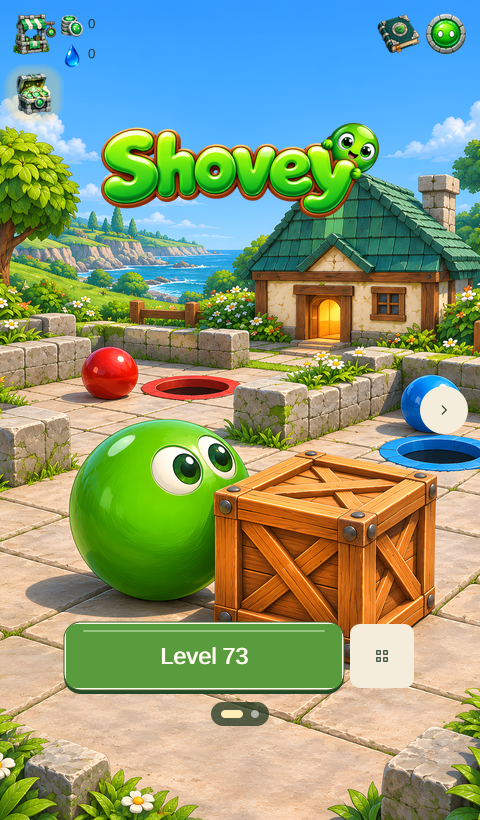
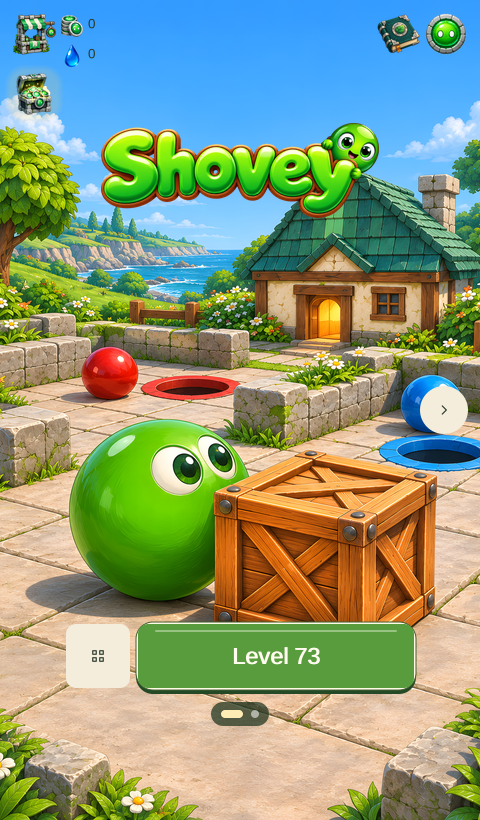
Place level selector before the play button

Changed region(s): [[0.125, 0.7317, 0.875, 0.8537], [0.0312, 0.061, 0.0938, 0.0915], [0.0938, 0.0915, 0.125, 0.122]]

diff --git a/tests/header_layout_ui_test.py b/tests/header_layout_ui_test.py
@@ -98,7 +98,7 @@ def main():
                     play = driver.wait(key=49222,role='button')
                     levels = driver.wait(key=49224,role='button')
                     assert play['y'] == levels['y'] and play['height'] == levels['height'] == 64
-                    assert play['x']+play['width']+8 == levels['x']
+                    assert levels['x']+levels['width']+8 == play['x']
                     market = driver.wait(key=49200, role='button')
                     chest = driver.wait(key=49202, role='button')
                     book = driver.wait(key=49208, role='button')

diff --git a/src/CHANGELOG.md b/src/CHANGELOG.md
@@ -2,6 +2,8 @@
 
 ## [Unreleased]
 
+- Place the level selector to the left of the current-level play button.
+
 - Explain and highlight the next hint target, verify advice from current puzzle positions, and search for recovery after detours.
 - Put Settings at the top right and replace the long guide with compact illustrated mechanic cards.
 
